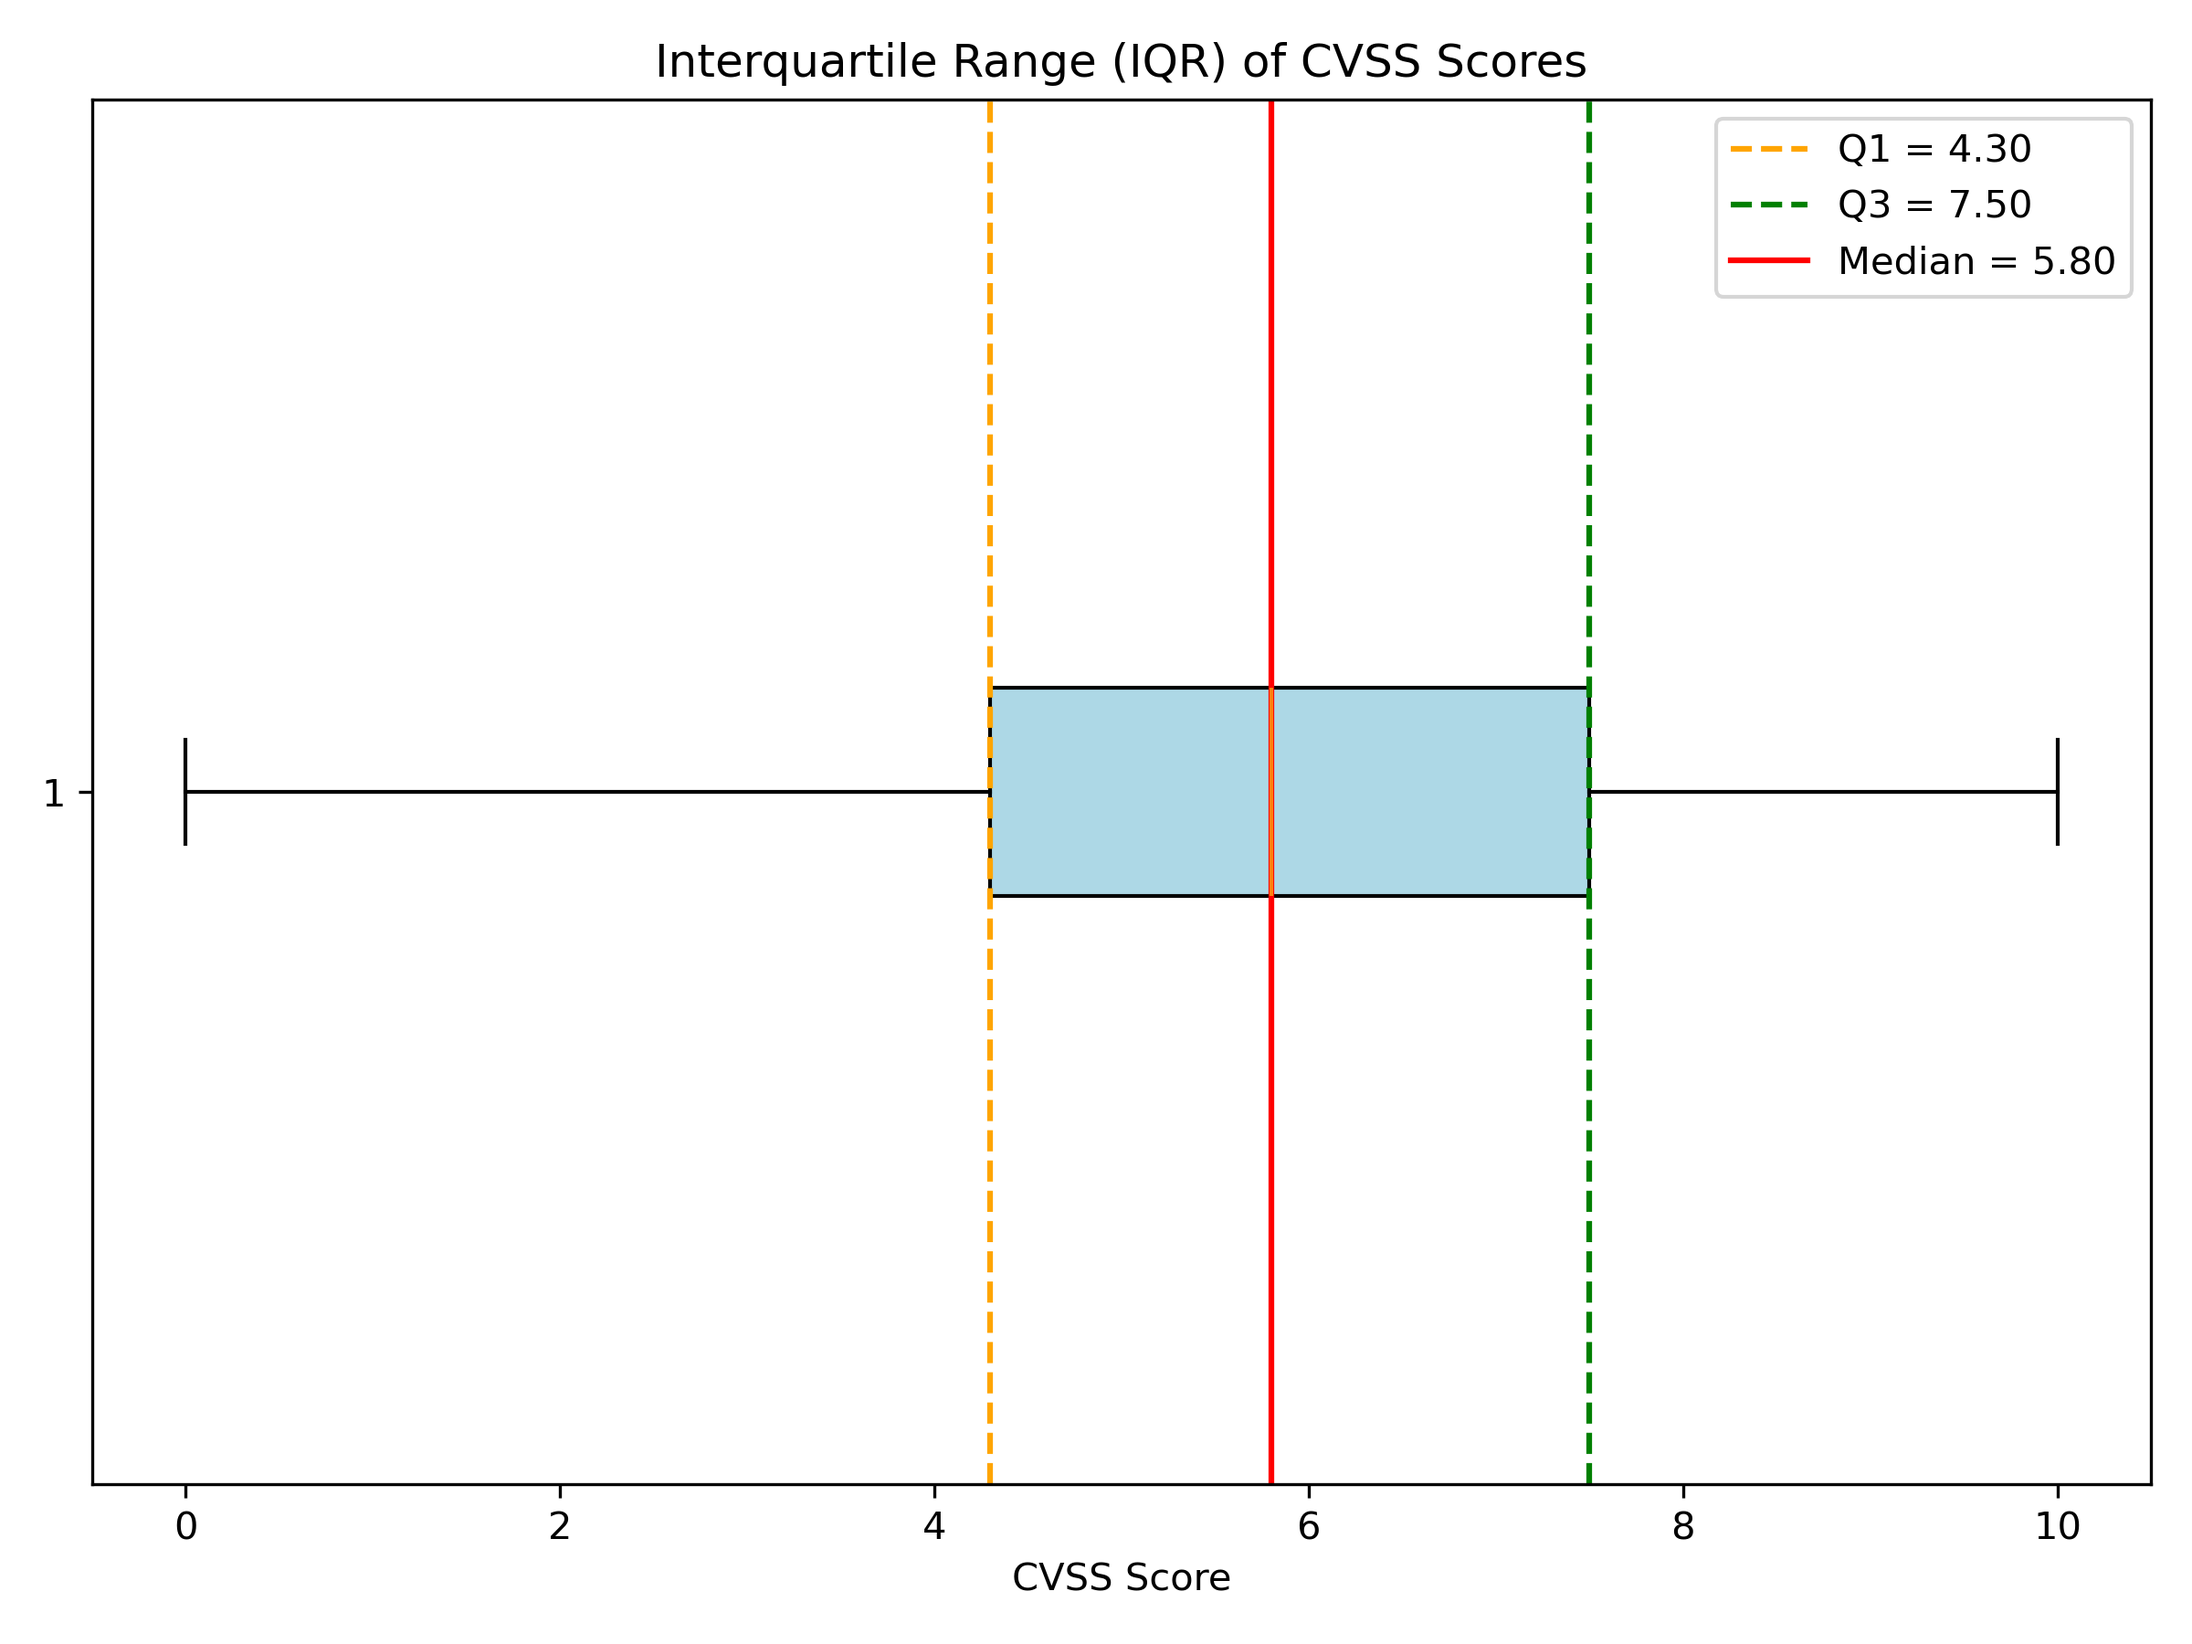
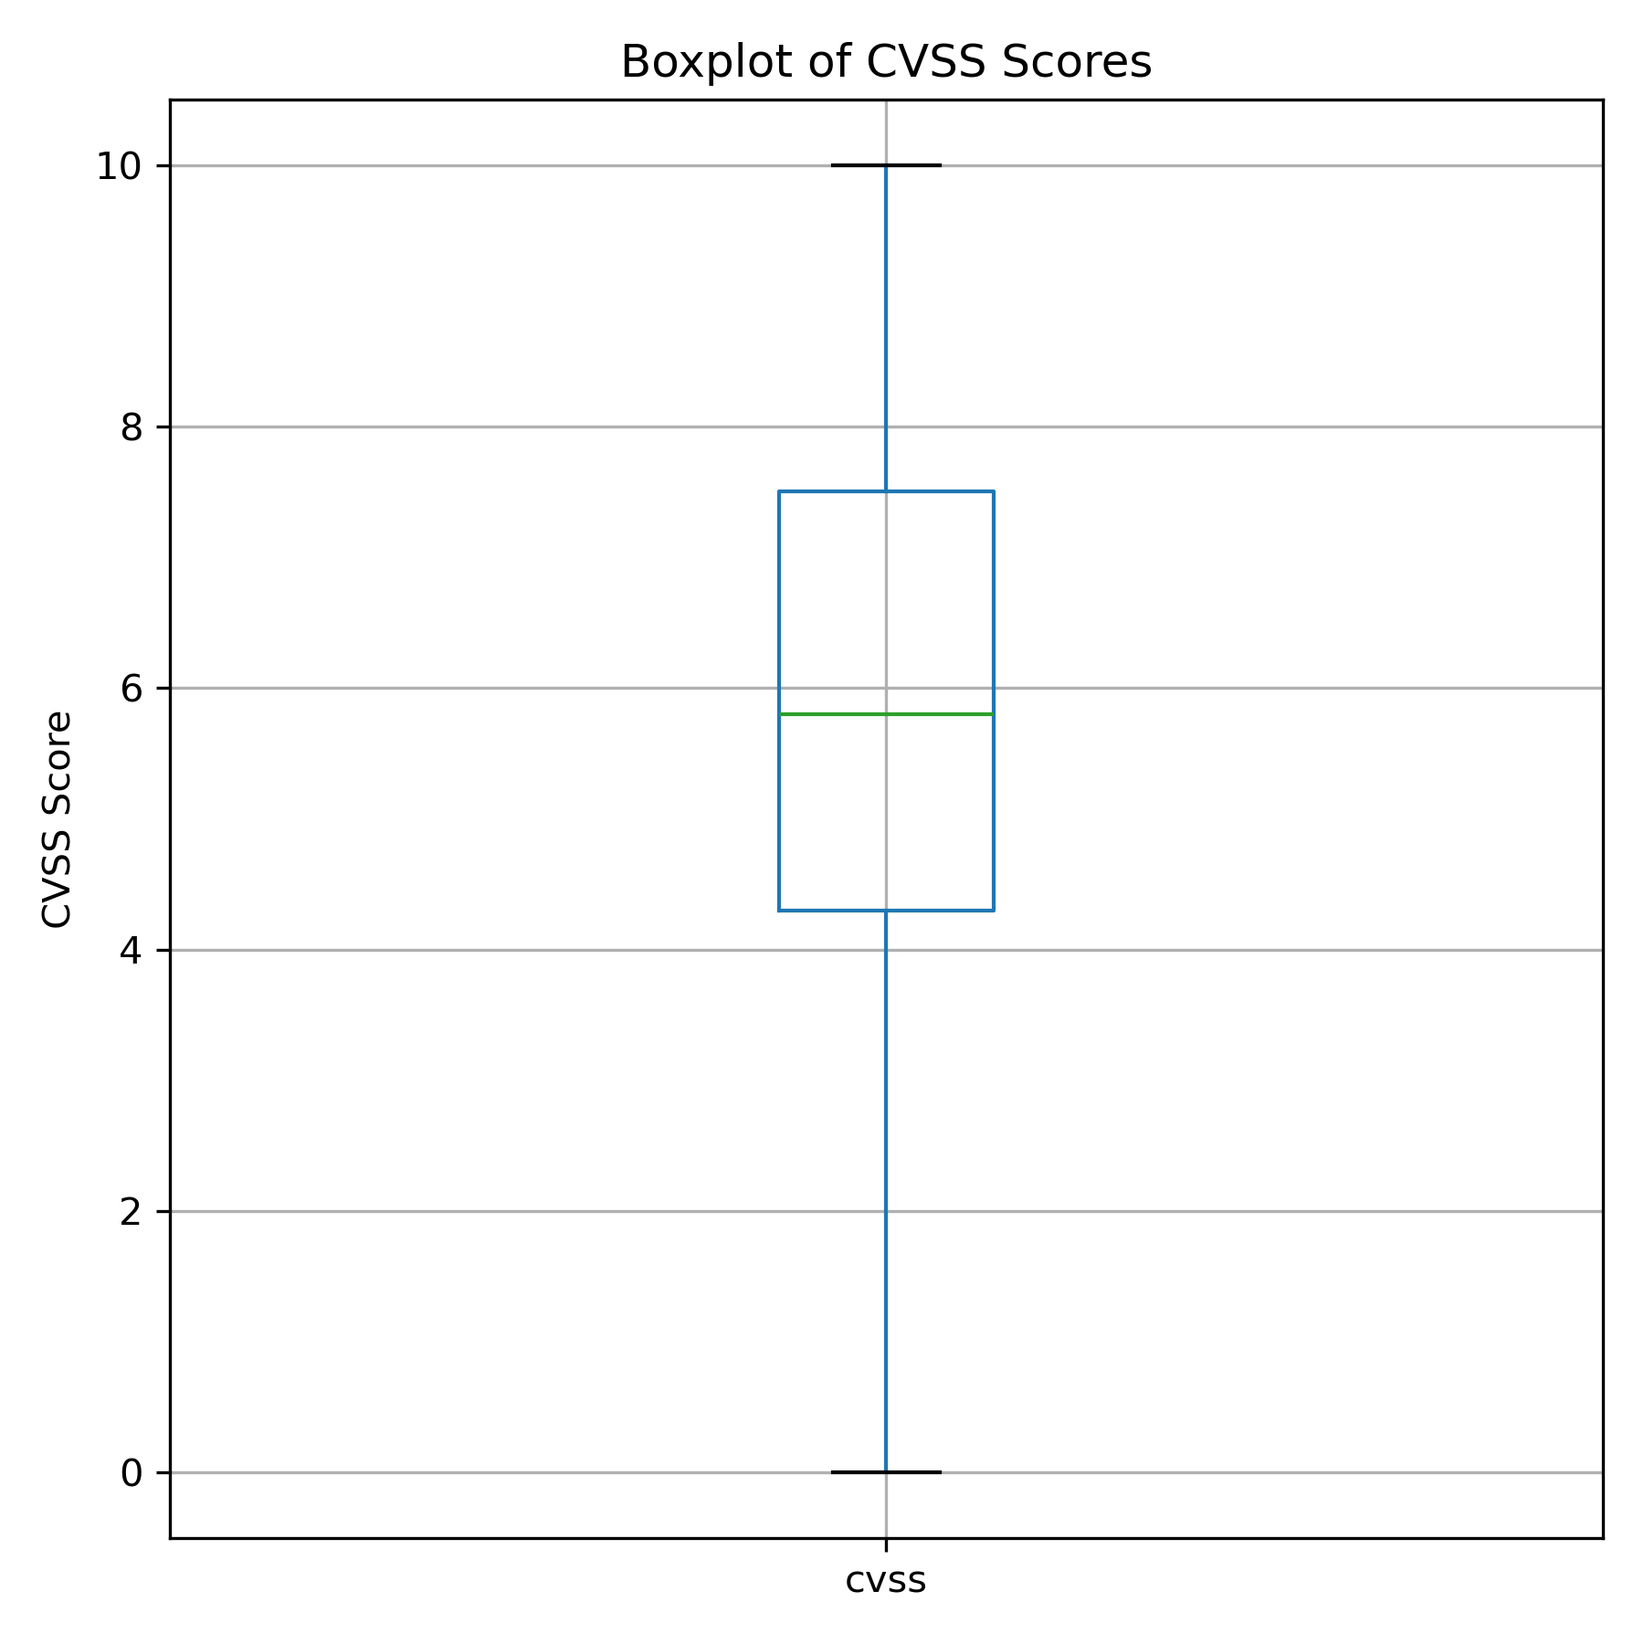
remove the license

diff --git a/mmm.py b/mmm.py
@@ -48,23 +48,15 @@ def main():
     print(f"Interquartile Range (IQR) of CVSS Scores: {iqr}")
 
     # Box Plot for CVSS Scores with IQR
-    plt.figure(figsize=(8, 6))
-    plt.boxplot(cve['cvss'], vert=False, patch_artist=True, boxprops=dict(facecolor='lightblue'))
-
-    # Add labels and title
-    plt.title('Interquartile Range (IQR) of CVSS Scores')
-    plt.xlabel('CVSS Score')
-
-    # Annotate IQR on the plot
-    plt.axvline(q1, color='orange', linestyle='--', label=f'Q1 = {q1:.2f}')
-    plt.axvline(q3, color='green', linestyle='--', label=f'Q3 = {q3:.2f}')
-    plt.axvline(median_value, color='red', linestyle='-', label=f'Median = {median_value:.2f}')
-    plt.legend()
+    # boxplot (just plotting cvss distribution)
+    plt.figure(figsize=(6, 6))
+    cve.boxplot(column='cvss')
+    plt.title('Boxplot of CVSS Scores')
+    plt.ylabel('CVSS Score')
     plt.tight_layout()
 
     # Save the plot to file
-    plt.savefig('./figures/IQR.png', dpi=300)  # You can change filename and dpi as needed
-
+    plt.savefig('./figures/IQR.png', dpi=300)
     plt.show()
 
     # Cleanup

diff --git a/dataset_loader.py b/dataset_loader.py
@@ -7,7 +7,10 @@ def load_data():
     cve_cleaned = cleanup(cve)
     products = pd.read_csv('./archive/products.csv')
     vendor_product = pd.read_csv('./archive/vendor_product.csv')
-    vendors = pd.read_csv('./archive/vendors.csv')    
+    vendors = pd.read_csv('./archive/vendors.csv')  
+
+    # print the cve table info before processing the cvss values
+    print(vendors.info())  
     return cve_cleaned, products, vendor_product, vendors
 
 
@@ -49,7 +52,5 @@ def cleanup(cve):
     after_dedup = len(cve_cleaned)
     duplicates_removed = before_dedup - after_dedup
     print(f"Duplicate CVE entries removed: {duplicates_removed}")
-
-
 
     return cve_cleaned
